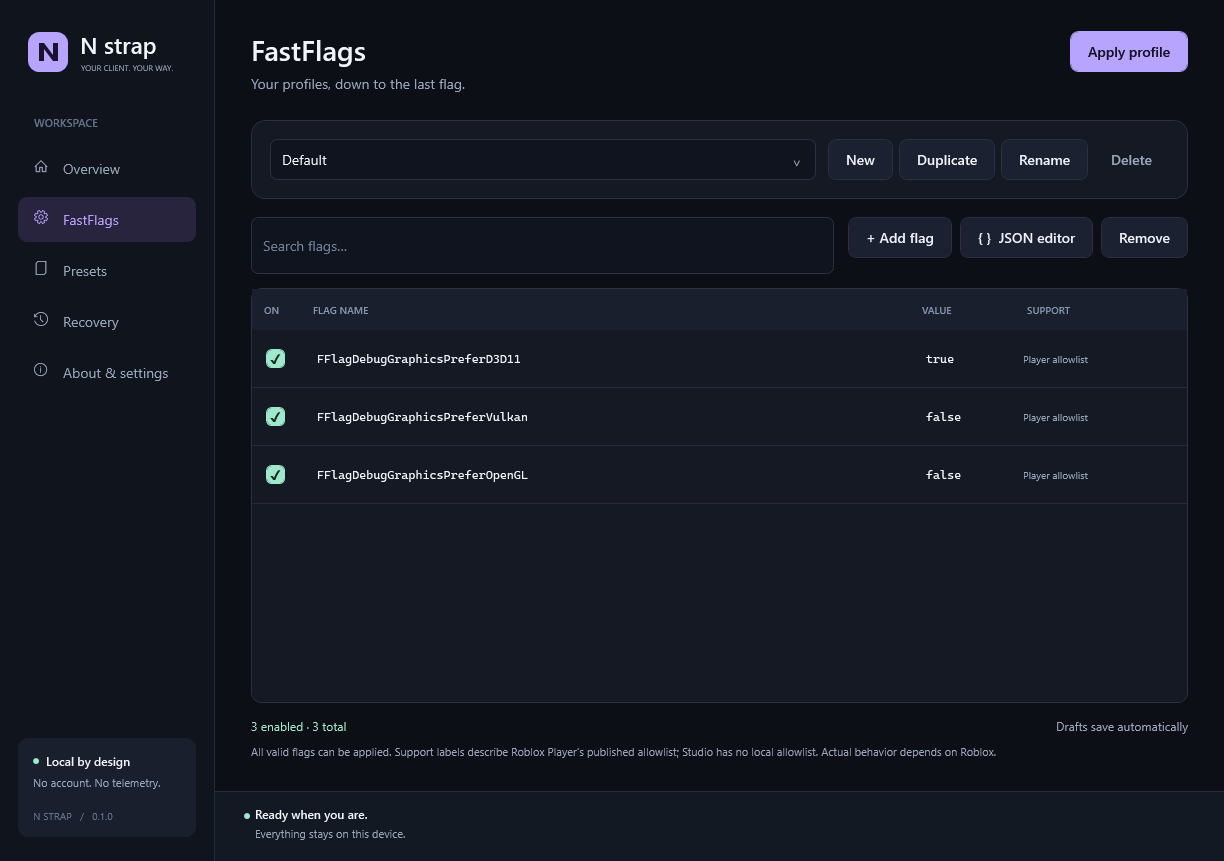
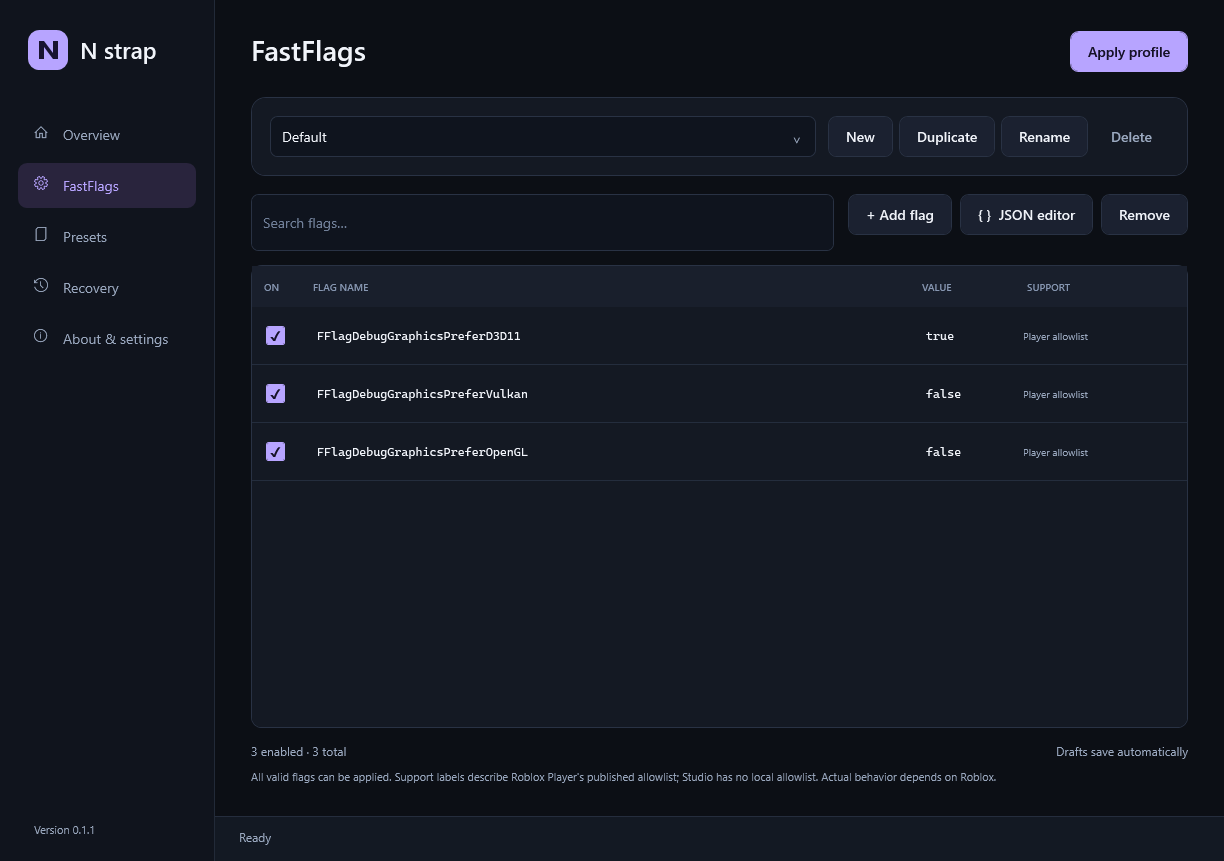
Simplify UI copy and remove decorative status accents

diff --git a/src/Nstrap.App/MainWindow.xaml b/src/Nstrap.App/MainWindow.xaml
@@ -35,10 +35,9 @@
           <Border Width="40" Height="40" Background="{StaticResource AccentBrush}" CornerRadius="11">
             <Path Data="M 11,29 L 11,11 L 16,11 L 25,23 L 25,11 L 30,11 L 30,29 L 25,29 L 16,17 L 16,29 Z" Fill="#19132F" Stretch="None"/>
           </Border>
-          <StackPanel Margin="12,-1,0,0"><TextBlock Text="N strap" FontSize="23" FontWeight="SemiBold"/><TextBlock Text="YOUR CLIENT. YOUR WAY." FontSize="8" Foreground="{StaticResource MutedBrush}" Margin="1,2,0,0"/></StackPanel>
+          <TextBlock Text="N strap" FontSize="23" FontWeight="SemiBold" Margin="12,0,0,0" VerticalAlignment="Center"/>
         </StackPanel>
         <StackPanel Grid.Row="1">
-          <TextBlock Text="WORKSPACE" Style="{StaticResource Eyebrow}" Foreground="#65738C" Margin="16,0,0,16"/>
           <RadioButton x:Name="HomeNav" Style="{StaticResource NavButton}" IsChecked="True" Tag="0" Checked="Navigate">
             <StackPanel Orientation="Horizontal"><TextBlock Text="&#xE80F;" FontFamily="Segoe MDL2 Assets" Width="29" Foreground="{Binding Foreground, RelativeSource={RelativeSource AncestorType=RadioButton}}"/><TextBlock Text="Overview" Foreground="{Binding Foreground, RelativeSource={RelativeSource AncestorType=RadioButton}}"/></StackPanel>
           </RadioButton>
@@ -55,12 +54,7 @@
             <StackPanel Orientation="Horizontal"><TextBlock Text="&#xE946;" FontFamily="Segoe MDL2 Assets" Width="29" Foreground="{Binding Foreground, RelativeSource={RelativeSource AncestorType=RadioButton}}"/><TextBlock Text="About &amp; settings" Foreground="{Binding Foreground, RelativeSource={RelativeSource AncestorType=RadioButton}}"/></StackPanel>
           </RadioButton>
         </StackPanel>
-        <Border Grid.Row="3" Background="#191F2C" CornerRadius="10" Padding="15">
-          <StackPanel><StackPanel Orientation="Horizontal"><Ellipse Width="6" Height="6" Fill="{StaticResource MintBrush}" Margin="0,0,7,0"/><TextBlock Text="Local by design" FontWeight="SemiBold" FontSize="12"/></StackPanel>
-            <TextBlock Text="No account. No telemetry." Style="{StaticResource Muted}" FontSize="11" Margin="0,6,0,0"/>
-            <TextBlock Text="N STRAP   /   0.1.0" FontSize="10" Foreground="#67758D" Margin="0,13,0,0"/>
-          </StackPanel>
-        </Border>
+        <TextBlock Grid.Row="3" Text="{Binding AppVersion, StringFormat=Version {0}}" FontSize="11" Foreground="{StaticResource MutedBrush}" Margin="16,0,0,0"/>
       </Grid>
     </Border>
     <Grid Grid.Column="1">
@@ -70,37 +64,29 @@
         <TabItem>
           <ScrollViewer VerticalScrollBarVisibility="Auto" HorizontalScrollBarVisibility="Disabled">
             <StackPanel Margin="36,31,36,28">
-              <DockPanel><Border DockPanel.Dock="Right" VerticalAlignment="Center" CornerRadius="12" BorderBrush="#354336" BorderThickness="1" Background="#17271F" Padding="11,5"><TextBlock Text="PERSONAL WORKSPACE" Foreground="{StaticResource MintBrush}" FontSize="10" FontWeight="SemiBold"/></Border>
-                <StackPanel><TextBlock Text="Overview" FontSize="28" FontWeight="SemiBold"/><TextBlock Text="A little more control. A lot less friction." Style="{StaticResource Muted}" Margin="0,6,0,0"/></StackPanel>
-              </DockPanel>
-              <Border CornerRadius="16" Padding="28" Margin="0,28,0,20" BorderThickness="1" BorderBrush="#413759">
-                <Border.Background><LinearGradientBrush StartPoint="0,0" EndPoint="1,1"><GradientStop Color="#302743" Offset="0"/><GradientStop Color="#181D2D" Offset="1"/></LinearGradientBrush></Border.Background>
-                <Grid><Grid.ColumnDefinitions><ColumnDefinition Width="*"/><ColumnDefinition Width="130"/></Grid.ColumnDefinitions>
-                  <StackPanel><TextBlock Text="READY FOR YOUR NEXT SESSION" Style="{StaticResource Eyebrow}"/><TextBlock Text="Make room for play." FontSize="34" FontWeight="SemiBold" Margin="0,13,0,10"/>
-                    <TextBlock Text="Choose your client, shape your settings, and jump in." Foreground="#C4BCD4" TextWrapping="Wrap" Margin="0,0,0,24"/>
-                    <WrapPanel><Button Content="Launch Roblox   ↗" Style="{StaticResource Primary}" Click="LaunchClick" Padding="21,12" Margin="0,0,10,0"/><Button Content="Apply profile" Click="ApplyClick" Padding="21,12"/></WrapPanel>
-                  </StackPanel>
-                  <Viewbox Grid.Column="1" Width="110" Height="110" Opacity=".85">
-                    <Canvas Width="100" Height="100"><Path Data="M 10,78 L 10,22 L 26,22 L 62,65 L 62,22 L 78,22 L 78,78 L 62,78 L 26,35 L 26,78 Z" Fill="#AA93EA"/><Path Data="M 84,22 L 91,22 L 91,78 L 84,78 Z" Fill="#99D7C5"/></Canvas>
-                  </Viewbox>
-                </Grid>
+              <TextBlock Text="Overview" FontSize="28" FontWeight="SemiBold"/>
+              <Border Style="{StaticResource Card}" Margin="0,26,0,20">
+                <DockPanel>
+                  <WrapPanel DockPanel.Dock="Right" VerticalAlignment="Center" Margin="20,0,0,0"><Button Content="Launch Roblox" Style="{StaticResource Primary}" Click="LaunchClick" Margin="0,0,10,0"/><Button Content="Apply profile" Click="ApplyClick"/></WrapPanel>
+                  <StackPanel><TextBlock Text="Launch" FontSize="20" FontWeight="SemiBold"/><TextBlock Text="{Binding SelectedProfileName, StringFormat=Profile: {0}}" Style="{StaticResource Muted}" Margin="0,8,0,0" TextTrimming="CharacterEllipsis" TextWrapping="NoWrap"/></StackPanel>
+                </DockPanel>
               </Border>
               <Grid><Grid.ColumnDefinitions><ColumnDefinition Width="*"/><ColumnDefinition Width="18"/><ColumnDefinition Width="*"/></Grid.ColumnDefinitions>
                 <Border Style="{StaticResource Card}"><StackPanel>
-                  <TextBlock Text="ACTIVE PROFILE" Style="{StaticResource Eyebrow}"/>
+                  <TextBlock Text="Profile" FontSize="16" FontWeight="SemiBold"/>
                   <ComboBox ItemsSource="{Binding Profiles}" SelectedItem="{Binding SelectedProfile}" DisplayMemberPath="Name" Margin="0,16,0,12"/>
                   <TextBlock Text="{Binding FlagSummary}" Style="{StaticResource Muted}"/>
                   <Button Content="Manage FastFlags   →" HorizontalAlignment="Left" Style="{StaticResource Quiet}" Padding="0,15,0,0" Click="GoFlags"/>
                 </StackPanel></Border>
                 <Border Grid.Column="2" Style="{StaticResource Card}"><StackPanel>
-                  <TextBlock Text="CLIENT STATUS" Style="{StaticResource Eyebrow}"/>
+                  <TextBlock Text="Client" FontSize="16" FontWeight="SemiBold"/>
                   <TextBlock Text="{Binding ClientTitle}" FontSize="21" FontWeight="SemiBold" Margin="0,17,0,10"/>
                   <TextBlock Text="{Binding ClientDetail}" Style="{StaticResource Muted}" TextTrimming="CharacterEllipsis" TextWrapping="NoWrap" ToolTip="{Binding ClientPath}"/>
                   <Button Content="Refresh installations   ↻" HorizontalAlignment="Left" Style="{StaticResource Quiet}" Padding="0,15,0,0" Click="RefreshClick"/>
                 </StackPanel></Border>
               </Grid>
               <Border Style="{StaticResource Card}" Margin="0,20,0,0">
-                <StackPanel><DockPanel><TextBlock Text="Your installation" FontSize="18" FontWeight="SemiBold"/><TextBlock Text="{Binding InstallationSummary}" Style="{StaticResource Muted}" HorizontalAlignment="Right"/></DockPanel>
+                <StackPanel><DockPanel><TextBlock Text="Installation" FontSize="18" FontWeight="SemiBold"/><TextBlock Text="{Binding InstallationSummary}" Style="{StaticResource Muted}" HorizontalAlignment="Right"/></DockPanel>
                   <Grid Margin="0,18,0,0"><Grid.ColumnDefinitions><ColumnDefinition Width="*"/><ColumnDefinition Width="Auto"/></Grid.ColumnDefinitions>
                     <ComboBox ItemsSource="{Binding Installations}" SelectedItem="{Binding SelectedInstallation}" DisplayMemberPath="DisplayName" ToolTip="{Binding ClientPath}"/>
                     <Button Grid.Column="1" Content="Choose folder" Click="ChooseFolderClick" Margin="10,0,0,0"/>
@@ -116,7 +102,7 @@
           <Grid Margin="36,31,36,26">
             <Grid.RowDefinitions><RowDefinition Height="Auto"/><RowDefinition Height="Auto"/><RowDefinition Height="Auto"/><RowDefinition Height="*"/><RowDefinition Height="Auto"/></Grid.RowDefinitions>
             <DockPanel><Button DockPanel.Dock="Right" Content="Apply profile" Style="{StaticResource Primary}" VerticalAlignment="Top" Click="ApplyClick"/>
-              <StackPanel><TextBlock Text="FastFlags" FontSize="28" FontWeight="SemiBold"/><TextBlock Text="Your profiles, down to the last flag." Style="{StaticResource Muted}" Margin="0,6,0,0"/></StackPanel>
+              <TextBlock Text="FastFlags" FontSize="28" FontWeight="SemiBold"/>
             </DockPanel>
             <Border Grid.Row="1" Style="{StaticResource Card}" Padding="18" Margin="0,25,0,18">
               <Grid><Grid.ColumnDefinitions><ColumnDefinition Width="*"/><ColumnDefinition Width="Auto"/></Grid.ColumnDefinitions>
@@ -149,22 +135,20 @@
                   </DataGrid.Columns>
                 </DataGrid>
                 <StackPanel HorizontalAlignment="Center" VerticalAlignment="Center" Visibility="{Binding EmptyFlags, Converter={StaticResource BoolVisibility}}" IsHitTestVisible="False" Margin="24">
-                  <TextBlock Text="{}{ }" Foreground="{StaticResource AccentBrush}" FontFamily="Consolas" FontSize="40" HorizontalAlignment="Center"/>
-                  <TextBlock Text="Start with a clean slate." FontSize="20" FontWeight="SemiBold" HorizontalAlignment="Center" Margin="0,16,0,8"/>
-                  <TextBlock Text="Add a flag, paste JSON, or pick a preset." Style="{StaticResource Muted}" TextAlignment="Center"/>
+                  <TextBlock Text="No flags in this profile" FontSize="18" FontWeight="SemiBold" HorizontalAlignment="Center" Margin="0,0,0,8"/>
+                  <TextBlock Text="Add a flag, import JSON, or choose a preset." Style="{StaticResource Muted}" TextAlignment="Center"/>
                 </StackPanel>
               </Grid>
             </Border>
-            <StackPanel Grid.Row="4" Margin="0,15,0,0"><DockPanel><TextBlock Text="{Binding FlagSummary}" Foreground="{StaticResource MintBrush}" FontSize="12"/><TextBlock Text="Drafts save automatically" Foreground="{StaticResource MutedBrush}" FontSize="12" HorizontalAlignment="Right"/></DockPanel>
+            <StackPanel Grid.Row="4" Margin="0,15,0,0"><DockPanel><TextBlock Text="{Binding FlagSummary}" Foreground="{StaticResource MutedBrush}" FontSize="12"/><TextBlock Text="Drafts save automatically" Foreground="{StaticResource MutedBrush}" FontSize="12" HorizontalAlignment="Right"/></DockPanel>
               <TextBlock Text="All valid flags can be applied. Support labels describe Roblox Player's published allowlist; Studio has no local allowlist. Actual behavior depends on Roblox." Style="{StaticResource Muted}" FontSize="11" Margin="0,10,0,0"/>
             </StackPanel>
           </Grid>
         </TabItem>
         <TabItem>
           <ScrollViewer VerticalScrollBarVisibility="Auto"><StackPanel Margin="36,31,36,28">
-            <TextBlock Text="A useful starting point." FontSize="28" FontWeight="SemiBold"/>
-            <TextBlock Text="Small, readable presets. Every flag stays yours to edit." Style="{StaticResource Muted}" Margin="0,6,0,0"/>
-            <Border Background="#1D2630" CornerRadius="10" Padding="16" Margin="0,25,0,22"><TextBlock Text="Presets merge into your selected profile and enable their flags. Apply the profile when you are ready. These are configuration requests, not measured performance promises." Style="{StaticResource Muted}"/></Border>
+            <TextBlock Text="Presets" FontSize="28" FontWeight="SemiBold"/>
+            <TextBlock Text="Adding a preset merges and enables its flags in the selected profile. Apply the profile to use them." Style="{StaticResource Muted}" Margin="0,12,0,24"/>
             <ItemsControl ItemsSource="{Binding Presets}">
               <ItemsControl.ItemsPanel><ItemsPanelTemplate><WrapPanel/></ItemsPanelTemplate></ItemsControl.ItemsPanel>
               <ItemsControl.ItemTemplate><DataTemplate>
@@ -181,49 +165,45 @@
         </TabItem>
         <TabItem>
           <ScrollViewer VerticalScrollBarVisibility="Auto"><StackPanel Margin="36,31,36,28">
-            <TextBlock Text="A way back, built in." FontSize="28" FontWeight="SemiBold"/>
-            <TextBlock Text="Settings changes should be easy to undo." Style="{StaticResource Muted}" Margin="0,6,0,28"/>
+            <TextBlock Text="Recovery" FontSize="28" FontWeight="SemiBold" Margin="0,0,0,26"/>
             <Border Style="{StaticResource Card}"><StackPanel><TextBlock Text="Restore managed settings" FontSize="22" FontWeight="SemiBold"/>
               <TextBlock Text="Remove the flags N strap applied to the selected installation. If a flag already had a value, that original value returns. Unmanaged settings are preserved." Style="{StaticResource Muted}" Margin="0,14,0,20"/>
               <ComboBox ItemsSource="{Binding Installations}" SelectedItem="{Binding SelectedInstallation}" DisplayMemberPath="DisplayName" Margin="0,0,0,20"/>
               <Button Content="Restore previous values" HorizontalAlignment="Left" Click="RestoreClick"/>
             </StackPanel></Border>
-            <Border Style="{StaticResource Card}" Margin="0,18,0,0"><StackPanel><TextBlock Text="Your backups" FontSize="22" FontWeight="SemiBold"/>
-              <TextBlock Text="Before changing an existing ClientAppSettings.json, N strap saves a complete timestamped copy. Backups and recovery records stay on your computer." Style="{StaticResource Muted}" Margin="0,14,0,20"/>
+            <Border Style="{StaticResource Card}" Margin="0,18,0,0"><StackPanel><TextBlock Text="Backups" FontSize="22" FontWeight="SemiBold"/>
+              <TextBlock Text="A timestamped copy of ClientAppSettings.json is saved before each change to an existing settings file." Style="{StaticResource Muted}" Margin="0,14,0,20"/>
               <Button Content="Open backups folder   ↗" HorizontalAlignment="Left" Click="BackupsClick"/>
             </StackPanel></Border>
-            <Border Background="#1C2430" CornerRadius="10" Padding="20" Margin="0,20,0,0"><StackPanel>
-              <TextBlock Text="Outside edits are respected" Foreground="{StaticResource MintBrush}" FontWeight="SemiBold"/>
-              <TextBlock Text="If another tool changes a managed flag, N strap pauses the write and explains the conflict. Original values and full backups remain available for review." Style="{StaticResource Muted}" Margin="0,8,0,0"/>
-            </StackPanel></Border>
+            <TextBlock Text="If another tool changes a managed flag, applying or restoring stops with a conflict message. Use the backups to review the original values." Style="{StaticResource Muted}" Margin="0,20,0,0"/>
           </StackPanel></ScrollViewer>
         </TabItem>
         <TabItem>
           <ScrollViewer VerticalScrollBarVisibility="Auto"><StackPanel Margin="36,31,36,28">
-            <TextBlock Text="Thoughtfully simple." FontSize="28" FontWeight="SemiBold"/>
-            <TextBlock Text="An independent home for your Roblox configuration." Style="{StaticResource Muted}" Margin="0,6,0,28"/>
+            <TextBlock Text="About &amp; settings" FontSize="28" FontWeight="SemiBold" Margin="0,0,0,26"/>
             <Border Style="{StaticResource Card}"><StackPanel><TextBlock Text="Launch behavior" FontSize="21" FontWeight="SemiBold"/>
               <CheckBox Content="Apply the selected profile before launching" IsChecked="{Binding ApplyBeforeLaunch}" Margin="0,21,0,10"/>
               <TextBlock Text="Close the selected Roblox client before applying flags. Updates can replace installation folders; refresh and apply to the new version." Style="{StaticResource Muted}" FontSize="12" Margin="0,10,0,0"/>
             </StackPanel></Border>
-            <Border Style="{StaticResource Card}" Margin="0,18,0,0"><StackPanel><TextBlock Text="Stored on your device" FontSize="21" FontWeight="SemiBold"/>
+            <Border Style="{StaticResource Card}" Margin="0,18,0,0"><StackPanel><TextBlock Text="Data folder" FontSize="21" FontWeight="SemiBold"/>
               <TextBlock Text="{Binding DataDirectory}" Style="{StaticResource Muted}" FontSize="12" Margin="0,14,0,18"/>
               <Button Content="Open data folder   ↗" Click="DataFolderClick" HorizontalAlignment="Left"/>
-              <TextBlock Text="No telemetry, credentials, background service, or protocol takeover. Installer downloads come from Roblox over HTTPS and must pass Windows signature and publisher verification." Style="{StaticResource Muted}" FontSize="12" Margin="0,20,0,0"/>
             </StackPanel></Border>
-            <Border Style="{StaticResource Card}" Margin="0,18,0,0"><StackPanel><TextBlock Text="N strap  0.1.0" FontSize="21" FontWeight="SemiBold"/>
-              <TextBlock Text="An original, independent Windows launcher. N strap is not affiliated with or endorsed by Roblox Corporation. Roblox controls which local flags its clients honor." Style="{StaticResource Muted}" Margin="0,14,0,18"/>
+            <Border Style="{StaticResource Card}" Margin="0,18,0,0"><StackPanel><TextBlock Text="{Binding AppVersion, StringFormat=N strap {0}}" FontSize="21" FontWeight="SemiBold"/>
+              <TextBlock Text="N strap is not affiliated with Roblox Corporation. Roblox determines which local flags its clients honor." Style="{StaticResource Muted}" Margin="0,14,0,18"/>
               <WrapPanel><Button Content="Roblox flag documentation   ↗" Click="DocsClick" Margin="0,0,12,0"/><Button Content="Roblox support   ↗" Style="{StaticResource Quiet}" Click="SupportClick"/></WrapPanel>
               <TextBlock Text="{Binding CatalogDate, StringFormat=Support catalog checked {0}}" Foreground="#6E7D94" FontSize="11" Margin="0,15,0,0"/>
             </StackPanel></Border>
           </StackPanel></ScrollViewer>
         </TabItem>
       </TabControl>
-      <Border Grid.Row="1" Background="#131923" BorderBrush="#252D3D" BorderThickness="0,1,0,0" Padding="24,14" MinHeight="70">
-        <Grid><Grid.ColumnDefinitions><ColumnDefinition Width="16"/><ColumnDefinition Width="*"/><ColumnDefinition Width="80"/></Grid.ColumnDefinitions>
-          <Ellipse Width="6" Height="6" VerticalAlignment="Top" Margin="0,7,0,0"><Ellipse.Style><Style TargetType="Ellipse"><Setter Property="Fill" Value="{StaticResource MintBrush}"/><Style.Triggers><DataTrigger Binding="{Binding HasError}" Value="True"><Setter Property="Fill" Value="#FFA691"/></DataTrigger></Style.Triggers></Style></Ellipse.Style></Ellipse>
-          <StackPanel Grid.Column="1"><TextBlock Text="{Binding Status}" FontWeight="SemiBold" FontSize="12" TextWrapping="Wrap"/><TextBlock Text="{Binding StatusDetail}" Foreground="{StaticResource MutedBrush}" FontSize="11" Margin="0,4,0,0" TextWrapping="Wrap" MaxHeight="70"/></StackPanel>
-          <ProgressBar Grid.Column="2" IsIndeterminate="True" Visibility="{Binding IsBusy, Converter={StaticResource BoolVisibility}}" Height="3" Background="#293044" Foreground="{StaticResource AccentBrush}" Margin="15,0,0,0"/>
+      <Border Grid.Row="1" Background="#131923" BorderBrush="#252D3D" BorderThickness="0,1,0,0" Padding="24,12" MinHeight="45">
+        <Grid><Grid.ColumnDefinitions><ColumnDefinition Width="*"/><ColumnDefinition Width="80"/></Grid.ColumnDefinitions>
+          <StackPanel>
+            <TextBlock Text="{Binding Status}" FontSize="12" TextWrapping="Wrap"><TextBlock.Style><Style TargetType="TextBlock"><Setter Property="Foreground" Value="{StaticResource MutedBrush}"/><Style.Triggers><DataTrigger Binding="{Binding HasError}" Value="True"><Setter Property="Foreground" Value="#FFA691"/></DataTrigger></Style.Triggers></Style></TextBlock.Style></TextBlock>
+            <TextBlock Text="{Binding StatusDetail}" Foreground="{StaticResource MutedBrush}" FontSize="11" Margin="0,4,0,0" TextWrapping="Wrap" MaxHeight="70"><TextBlock.Style><Style TargetType="TextBlock"><Style.Triggers><DataTrigger Binding="{Binding StatusDetail}" Value=""><Setter Property="Visibility" Value="Collapsed"/></DataTrigger></Style.Triggers></Style></TextBlock.Style></TextBlock>
+          </StackPanel>
+          <ProgressBar Grid.Column="1" IsIndeterminate="True" Visibility="{Binding IsBusy, Converter={StaticResource BoolVisibility}}" Height="3" Background="#293044" Foreground="{StaticResource AccentBrush}" Margin="15,0,0,0"/>
         </Grid>
       </Border>
     </Grid>

diff --git a/src/Nstrap.App/App.xaml b/src/Nstrap.App/App.xaml
@@ -9,7 +9,6 @@
     <SolidColorBrush x:Key="TextBrush" Color="#F1F4FA"/>
     <SolidColorBrush x:Key="MutedBrush" Color="#9AA8BF"/>
     <SolidColorBrush x:Key="AccentBrush" Color="#B7A4FF"/>
-    <SolidColorBrush x:Key="MintBrush" Color="#9EE8CB"/>
     <BooleanToVisibilityConverter x:Key="BoolVisibility"/>
     <Style TargetType="Window">
       <Setter Property="Background" Value="{StaticResource CanvasBrush}"/>
@@ -54,7 +53,7 @@
               <Trigger Property="IsMouseOver" Value="True"><Setter TargetName="Chrome" Property="Opacity" Value=".8"/></Trigger>
               <Trigger Property="IsPressed" Value="True"><Setter TargetName="Chrome" Property="Opacity" Value=".6"/></Trigger>
               <Trigger Property="IsEnabled" Value="False"><Setter TargetName="Chrome" Property="Opacity" Value=".35"/></Trigger>
-              <Trigger Property="IsKeyboardFocused" Value="True"><Setter TargetName="Chrome" Property="BorderBrush" Value="{StaticResource MintBrush}"/></Trigger>
+              <Trigger Property="IsKeyboardFocused" Value="True"><Setter TargetName="Chrome" Property="BorderBrush" Value="{StaticResource AccentBrush}"/></Trigger>
             </ControlTemplate.Triggers>
           </ControlTemplate>
         </Setter.Value>
@@ -141,13 +140,13 @@
       <Setter Property="Cursor" Value="Hand"/>
       <Setter Property="Template"><Setter.Value><ControlTemplate TargetType="CheckBox">
         <StackPanel Orientation="Horizontal">
-          <Border x:Name="Box" Width="19" Height="19" CornerRadius="5" BorderThickness="1" BorderBrush="#67748A" Background="#111620" Margin="0,0,9,0">
-            <TextBlock x:Name="Tick" Text="✓" Foreground="#15261F" FontSize="13" FontWeight="Bold" HorizontalAlignment="Center" VerticalAlignment="Center" Visibility="Collapsed"/>
+          <Border x:Name="Box" Width="19" Height="19" CornerRadius="2" BorderThickness="1" BorderBrush="#67748A" Background="#111620" Margin="0,0,9,0">
+            <TextBlock x:Name="Tick" Text="✓" Foreground="#151126" FontSize="13" FontWeight="Bold" HorizontalAlignment="Center" VerticalAlignment="Center" Visibility="Collapsed"/>
           </Border>
           <ContentPresenter VerticalAlignment="Center"/>
         </StackPanel>
         <ControlTemplate.Triggers>
-          <Trigger Property="IsChecked" Value="True"><Setter TargetName="Box" Property="Background" Value="{StaticResource MintBrush}"/><Setter TargetName="Box" Property="BorderBrush" Value="{StaticResource MintBrush}"/><Setter TargetName="Tick" Property="Visibility" Value="Visible"/></Trigger>
+          <Trigger Property="IsChecked" Value="True"><Setter TargetName="Box" Property="Background" Value="{StaticResource AccentBrush}"/><Setter TargetName="Box" Property="BorderBrush" Value="{StaticResource AccentBrush}"/><Setter TargetName="Tick" Property="Visibility" Value="Visible"/></Trigger>
           <Trigger Property="IsKeyboardFocused" Value="True"><Setter TargetName="Box" Property="BorderBrush" Value="{StaticResource AccentBrush}"/></Trigger>
         </ControlTemplate.Triggers>
       </ControlTemplate></Setter.Value></Setter>

diff --git a/src/Nstrap.App/JsonEditorWindow.xaml b/src/Nstrap.App/JsonEditorWindow.xaml
@@ -5,11 +5,11 @@
   <Grid Background="{StaticResource CanvasBrush}">
   <Grid Margin="26">
     <Grid.RowDefinitions><RowDefinition Height="Auto"/><RowDefinition Height="*"/><RowDefinition Height="Auto"/><RowDefinition Height="Auto"/></Grid.RowDefinitions>
-    <StackPanel Margin="0,0,0,20"><TextBlock Text="The whole picture." FontSize="26" FontWeight="SemiBold"/>
+    <StackPanel Margin="0,0,0,20"><TextBlock Text="JSON editor" FontSize="26" FontWeight="SemiBold"/>
       <TextBlock Text="Edit or import a flat JSON object. Replace profile enables every imported entry. Export includes enabled flags only; disabled entries stay in the profile until you replace it." Style="{StaticResource Muted}" FontSize="12" Margin="0,9,0,0"/>
     </StackPanel>
     <TextBox x:Name="Editor" Grid.Row="1" AcceptsReturn="True" AcceptsTab="True" VerticalScrollBarVisibility="Auto" HorizontalScrollBarVisibility="Auto" FontFamily="Cascadia Mono, Consolas" FontSize="13" Padding="16" VerticalContentAlignment="Top" AutomationProperties.Name="Flag JSON"/>
-    <TextBlock x:Name="Feedback" Grid.Row="2" Foreground="{StaticResource MintBrush}" TextWrapping="Wrap" Margin="0,14,0,14"/>
+    <TextBlock x:Name="Feedback" Grid.Row="2" Foreground="{StaticResource MutedBrush}" TextWrapping="Wrap" Margin="0,14,0,14"/>
     <DockPanel Grid.Row="3"><StackPanel Orientation="Horizontal" DockPanel.Dock="Right"><Button Content="Cancel" IsCancel="True" Style="{StaticResource Quiet}" Margin="0,0,8,0"/><Button Content="Replace profile" Style="{StaticResource Primary}" Click="ReplaceClick"/></StackPanel>
       <StackPanel Orientation="Horizontal"><Button Content="Import file" Click="ImportClick" Margin="0,0,8,0"/><Button Content="Export file" Click="ExportClick" Margin="0,0,8,0"/><Button Content="Validate" Click="ValidateClick"/></StackPanel>
     </DockPanel>

diff --git a/src/Nstrap.App/MainViewModel.cs b/src/Nstrap.App/MainViewModel.cs
@@ -12,7 +12,7 @@ public sealed class MainViewModel : Observable
     private readonly DispatcherTimer _saveTimer = new() { Interval = TimeSpan.FromMilliseconds(600) };
     private FlagProfile _selectedProfile;
     private RobloxInstallation? _selectedInstallation;
-    private string _search = "", _status = "Ready when you are.", _statusDetail = "Everything stays on this device.";
+    private string _search = "", _status = "Ready", _statusDetail = "";
     private bool _isBusy, _hasError;
     private int _page;
     public ProfileStore Store { get; }
@@ -23,12 +23,13 @@ public sealed class MainViewModel : Observable
     public IReadOnlyList<FlagPreset> Presets => FlagCatalog.Presets;
     public ICollectionView FlagsView { get; private set; }
     public string DataDirectory => Store.DirectoryPath;
+    public string AppVersion => typeof(MainViewModel).Assembly.GetName().Version?.ToString(3) ?? "0.1.1";
     public string CatalogDate => FlagCatalog.CheckedOn;
     public string FlagSummary => $"{SelectedProfile.Flags.Count(f => f.Enabled)} enabled · {SelectedProfile.Flags.Count} total";
     public string ProfileSummary => $"{Profiles.Count} local profile{(Profiles.Count == 1 ? "" : "s")}";
     public string InstallationSummary => Installations.Count == 0 ? "No clients found" : $"{Installations.Count} client{(Installations.Count == 1 ? "" : "s")} detected";
-    public string ClientTitle => SelectedInstallation is null ? "Connect your Roblox" : $"Roblox {SelectedInstallation.Kind}";
-    public string ClientDetail => SelectedInstallation is null ? "Install Player or choose an existing installation to get started." : SelectedInstallation.Version;
+    public string ClientTitle => SelectedInstallation is null ? "No client selected" : $"Roblox {SelectedInstallation.Kind}";
+    public string ClientDetail => SelectedInstallation is null ? "Install Player or choose an installation folder." : SelectedInstallation.Version;
     public string ClientPath => SelectedInstallation?.DirectoryPath ?? "No installation selected";
     public bool HasInstallation => SelectedInstallation is not null;
     public bool EmptyFlags => SelectedProfile.Flags.Count == 0;
@@ -133,7 +134,7 @@ public sealed class MainViewModel : Observable
             ?? Installations.FirstOrDefault();
         Changed(nameof(InstallationSummary));
     }
-    public void Success(string title, string detail = "Changes are saved locally.")
+    public void Success(string title, string detail = "")
     {
         HasError = false; Status = title; StatusDetail = detail;
     }

diff --git a/src/Nstrap.App/JsonEditorWindow.xaml.cs b/src/Nstrap.App/JsonEditorWindow.xaml.cs
@@ -19,7 +19,7 @@ public partial class JsonEditorWindow : Window
     private List<FlagEntry> Validate()
     {
         var flags = FlagValidator.Import(Editor.Text);
-        Feedback.Foreground = (Brush)FindResource("MintBrush");
+        Feedback.Foreground = (Brush)FindResource("MutedBrush");
         Feedback.Text = $"Valid JSON · {flags.Count} flags. All entries can be applied.";
         return flags;
     }
